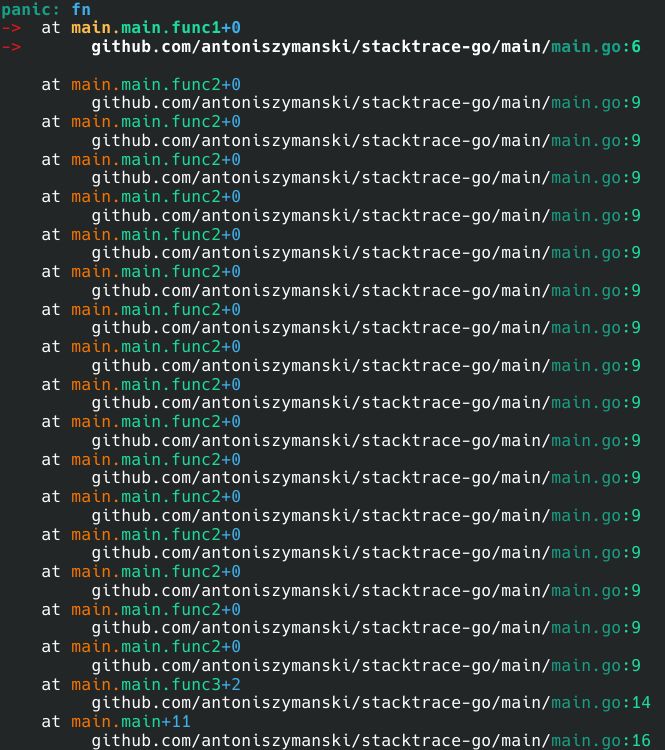
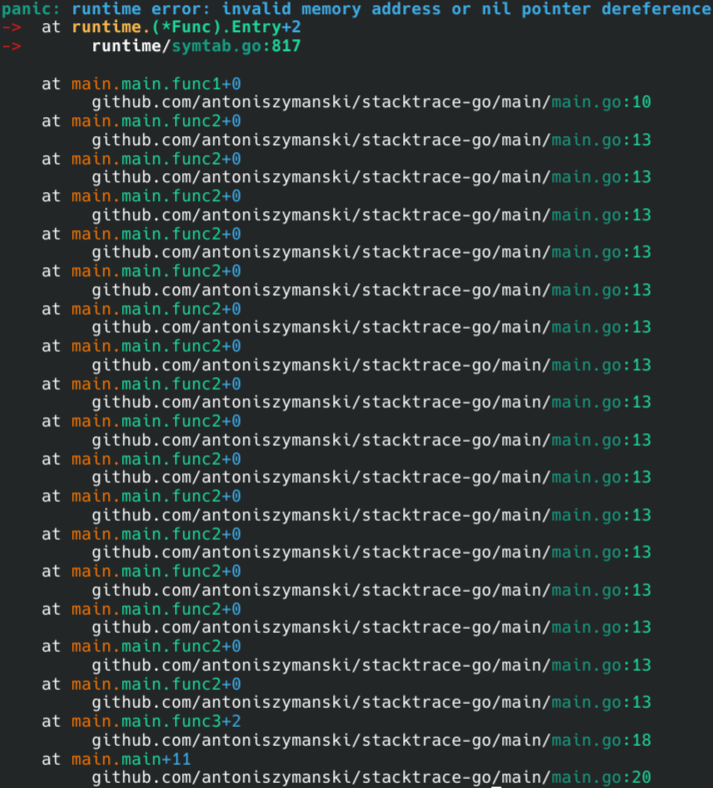
fix: correctly filter unexported runtime functions in CallStack

Changed region(s): [[0.0, 0.0, 1.0, 1.0]]

diff --git a/stacktrace.go b/stacktrace.go
@@ -1,5 +1,6 @@
 // SPDX-FileCopyrightText: 2025 Antoni Szymański
 // SPDX-FileCopyrightText: 2018-2019 Elasticsearch B.V.
+// SPDX-FileCopyrightText: 2009 The Go Authors
 // SPDX-License-Identifier: MPL-2.0
 
 package stacktrace
@@ -8,8 +9,6 @@ import (
 	"iter"
 	"runtime"
 	"strings"
-	"unicode"
-	"unicode/utf8"
 	"unsafe"
 
 	"github.com/antoniszymanski/gopc-go"
@@ -32,16 +31,9 @@ func CallStack(skip int, predicate func(frame runtime.Frame) bool) iter.Seq[runt
 	return func(yield func(runtime.Frame) bool) {
 		for {
 			frame, more := frames.Next()
-			const prefix = "runtime."
-			switch {
-			case len(frame.Function) >= len(prefix)+1 && frame.Function[:len(prefix)] == prefix:
-				r, _ := utf8.DecodeRuneInString(frame.Function[len(prefix):])
-				if !unicode.IsUpper(r) {
-					goto skip
-				}
-			case frame.Function == "github.com/antoniszymanski/stacktrace-go.Go.func1":
-				goto skip
-			case predicate != nil && !predicate(frame):
+			if isUnexportedRuntime(frame.Function) ||
+				frame.Function == "github.com/antoniszymanski/stacktrace-go.Go.func1" ||
+				(predicate != nil && !predicate(frame)) {
 				goto skip
 			}
 			if !yield(frame) {
@@ -57,6 +49,36 @@ func CallStack(skip int, predicate func(frame runtime.Frame) bool) iter.Seq[runt
 
 //go:linkname callers runtime.callers
 func callers(skip int, pcs []uintptr) int
+
+// isUnexportedRuntime reports whether name is an unexported runtime function.
+//
+// https://github.com/golang/go/blob/release-branch.go1.25/src/runtime/traceback.go#L1166
+func isUnexportedRuntime(name string) bool {
+	// Check and remove package qualifier.
+	name, found := strings.CutPrefix(name, "runtime.")
+	if !found {
+		return false
+	}
+	rcvr := ""
+
+	// Extract receiver type, if any.
+	// For example, runtime.(*Func).Entry
+	i := len(name) - 1
+	for i >= 0 && name[i] != '.' {
+		i--
+	}
+	if i >= 0 {
+		rcvr = name[:i]
+		name = name[i+1:]
+		// Remove parentheses and star for pointer receivers.
+		if len(rcvr) >= 3 && rcvr[0] == '(' && rcvr[1] == '*' && rcvr[len(rcvr)-1] == ')' {
+			rcvr = rcvr[2 : len(rcvr)-1]
+		}
+	}
+
+	// Unexported functions and unexported methods on unexported types.
+	return len(name) == 0 || name[0] < 'A' || name[0] > 'Z' || (len(rcvr) > 0 && (rcvr[0] < 'A' || rcvr[0] > 'Z'))
+}
 
 // SplitFunctionPath splits the function path as formatted in
 // [runtime.Frame.Function], and returns the package path and

diff --git a/handle_test.go b/handle_test.go
@@ -5,13 +5,14 @@ package stacktrace
 
 import (
 	"io"
+	"runtime"
 	"testing"
 )
 
 var fn func()
 
 func init() {
-	fn = func() { panic("fn") }
+	fn = func() { (*runtime.Func)(nil).Entry() }
 	for range 16 {
 		oldFn := fn
 		fn = func() { oldFn() }

diff --git a/README.md b/README.md
@@ -31,6 +31,7 @@ goos: linux
 goarch: amd64
 pkg: github.com/antoniszymanski/stacktrace-go
 cpu: Intel(R) Core(TM) i7-7700HQ CPU @ 2.80GHz
-BenchmarkHandle-8   	   96330	     12771 ns/op	     688 B/op	       7 allocs/op
+BenchmarkHandle-8   	   63949	     19769 ns/op	     752 B/op	       7 allocs/op
 PASS
+ok  	github.com/antoniszymanski/stacktrace-go	1.460s
 ```
